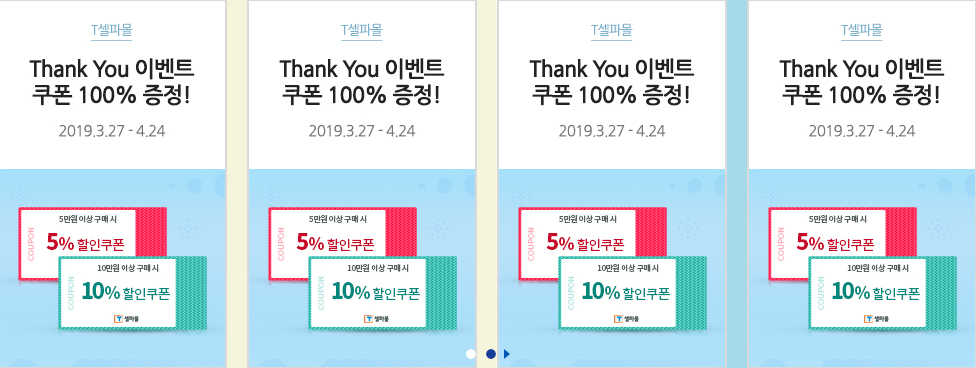
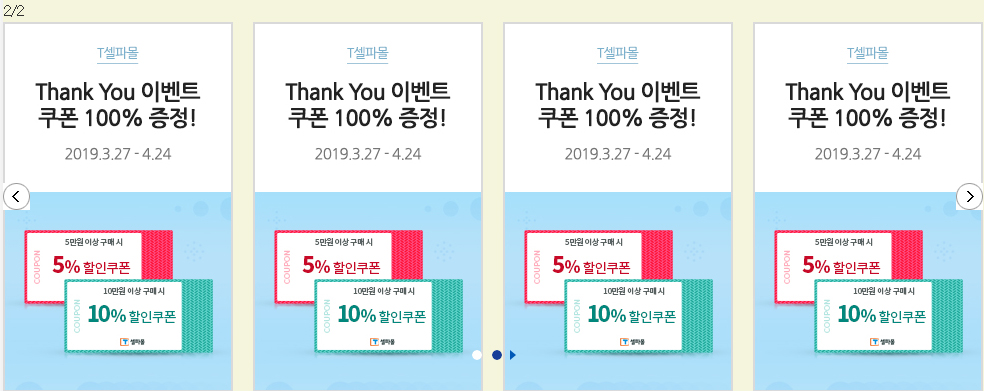
ㅋ

diff --git a/bxSlider/html/bxslider_type2.html b/bxSlider/html/bxslider_type2.html
@@ -44,6 +44,7 @@
 	<div id="wrap">
 		<!-- 복사 -->
 		<div class="bxslider_type2">
+				<span id="count">1/2</span>
 				<a href="javascript:void(0);" class="btns btn_pre" title="이전"></a>
 				<a href="javascript:void(0);" class="btns btn_next" title="다음"></a>
 				<ul class="bxslider">
@@ -66,9 +67,12 @@
 			
 			/* 복사 */
 			$(document).ready(function() {
-				$('.bxslider_type2 .bxslider').bxSlider({
+				
+				var slidePerView = 4; //1페이지에 보이는 요소개수
+				
+				slider = $('.bxslider_type2 .bxslider').bxSlider({
 					minSlides: 2,
-   				maxSlides: 4,
+   				maxSlides: slidePerView,
 					auto: true,
 					autoControls: true,
 					slideMargin: 20,
@@ -80,9 +84,15 @@
 					pager: true,
 					controls:false,
 					prevClass: ".btn_next",
-          nextClass: ".btn_pre"
-
+          nextClass: ".btn_pre",
+					onSlideAfter : function(){
+						 //$('.slide-number').text((slider.getCurrentSlide()+1)+'/'+slider.getSlideCount());   
+						//console.log((slider.getCurrentSlide()+1)+'/'+slider.getSlideCount()/4);
+						$("#count").html((slider.getCurrentSlide()+1)+'/'+slider.getSlideCount()/slidePerView)
+					}
 				});
+				$("#count").html(1+'/'+slider.getSlideCount()/slidePerView)
+				
 			});
 			/* //복사 */
 		</script>
